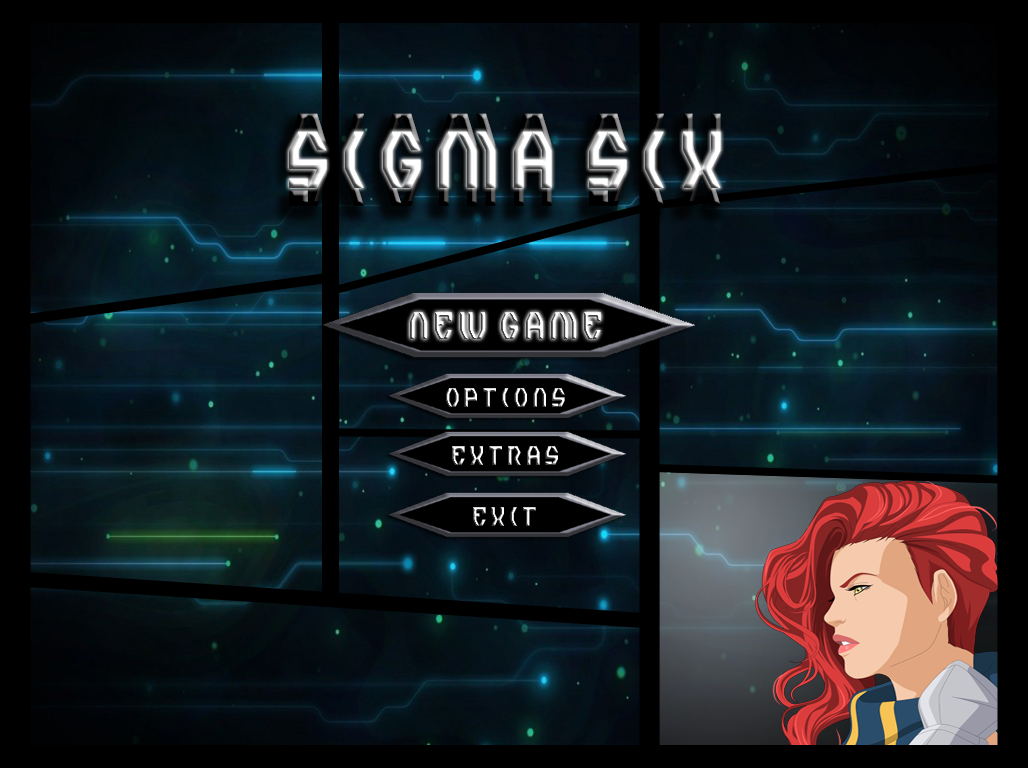
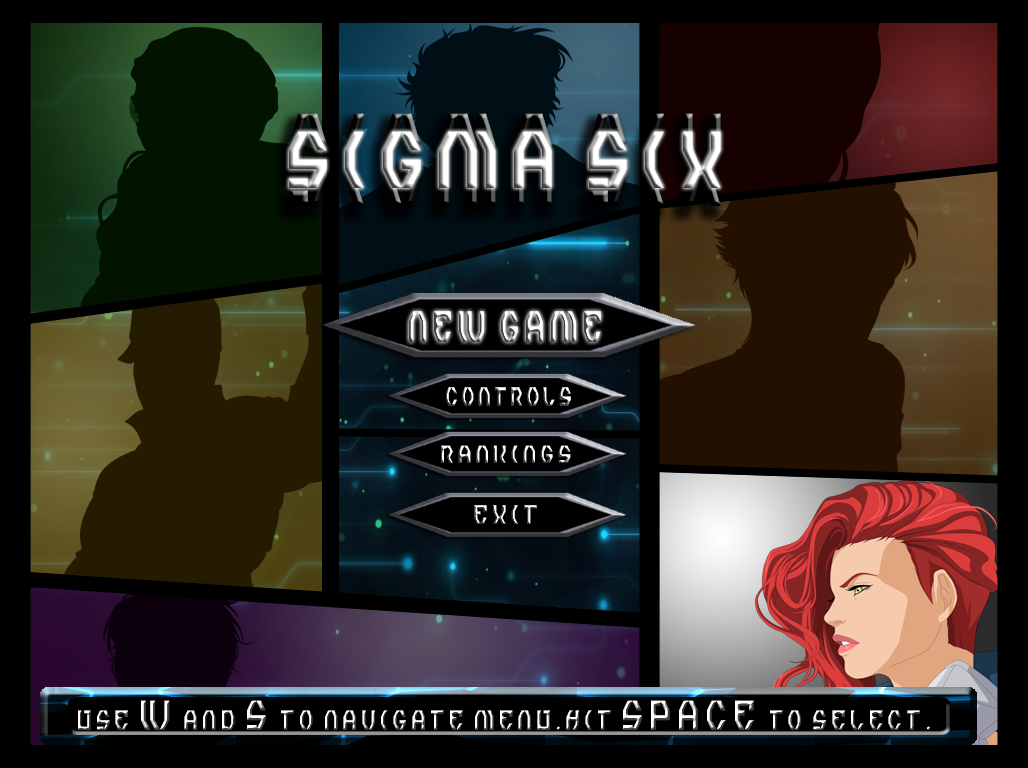
[ADD] All Menus

diff --git a/opengltest/Menu.cpp b/opengltest/Menu.cpp
@@ -7,6 +7,7 @@ MenuClass::MenuClass(int num)
 	selection = 1;
 	background = new Sprite();
 	background->setNumberOfAnimations(1);
+	background->setCurrentAnimation(0);
 	ChangeImage(num);
 }
 
@@ -28,6 +29,10 @@ void MenuClass::KeyPress(unsigned char key, bool press)
 			else if (selection <= 33 && selection > 30)
 			{
 				selection--;
+			}
+			else if (selection >= -5 && selection < -1)
+			{
+				selection++;
 			}
 			else if (selection <= -33 && selection > -30)
 			{
@@ -51,6 +56,10 @@ void MenuClass::KeyPress(unsigned char key, bool press)
 			else if (selection < 33 && selection >= 30)
 			{
 				selection++;
+			}
+			else if (selection <= -5 && selection > -1)
+			{
+			selection--;
 			}
 			else if (selection > -33 && selection <= -30)
 			{
@@ -146,7 +155,7 @@ void MenuClass::KeyPress(unsigned char key, bool press)
 			}
 			else if (selection == -40)
 			{
-				selection = 1;
+				exit(0);
 			}
 			else if (selection == -41)
 			{
@@ -162,7 +171,7 @@ void MenuClass::KeyPress(unsigned char key, bool press)
 			}
 			else if (selection == -50)
 			{
-				selection = 1;
+				exit(0);
 			}
 		}
 		ChangeImage(selection);
@@ -188,8 +197,8 @@ void MenuClass::ChangeImage(int num)
 	background->addSpriteAnimFrame(0, 0, 0);
 	if (num < 0)
 	{
-		background->setSpriteFrameSize(314, 428);
-		background->setPosition(EntityManager::instance()->getXofID(0) - 29, EntityManager::instance()->getYofID(0) - 20);
+		background->setSpriteFrameSize(1024, 768);
+		background->setPosition(EntityManager::instance()->getXofID(0) - 120, EntityManager::instance()->getYofID(0) - 60);
 	}
 	else
 	{
